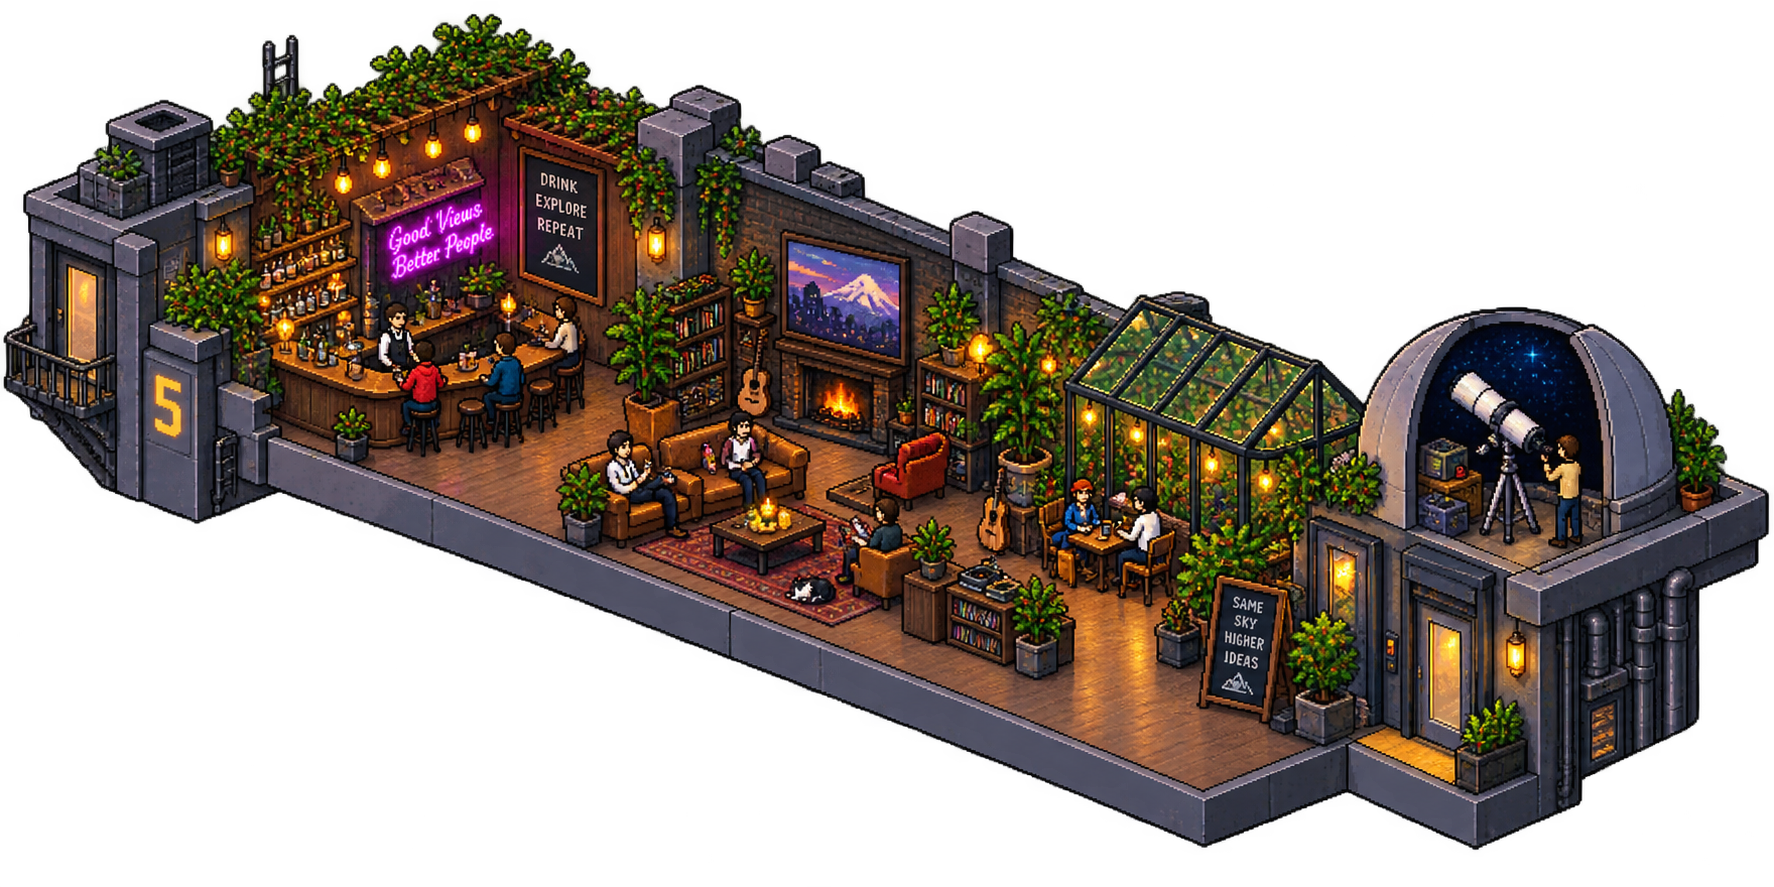
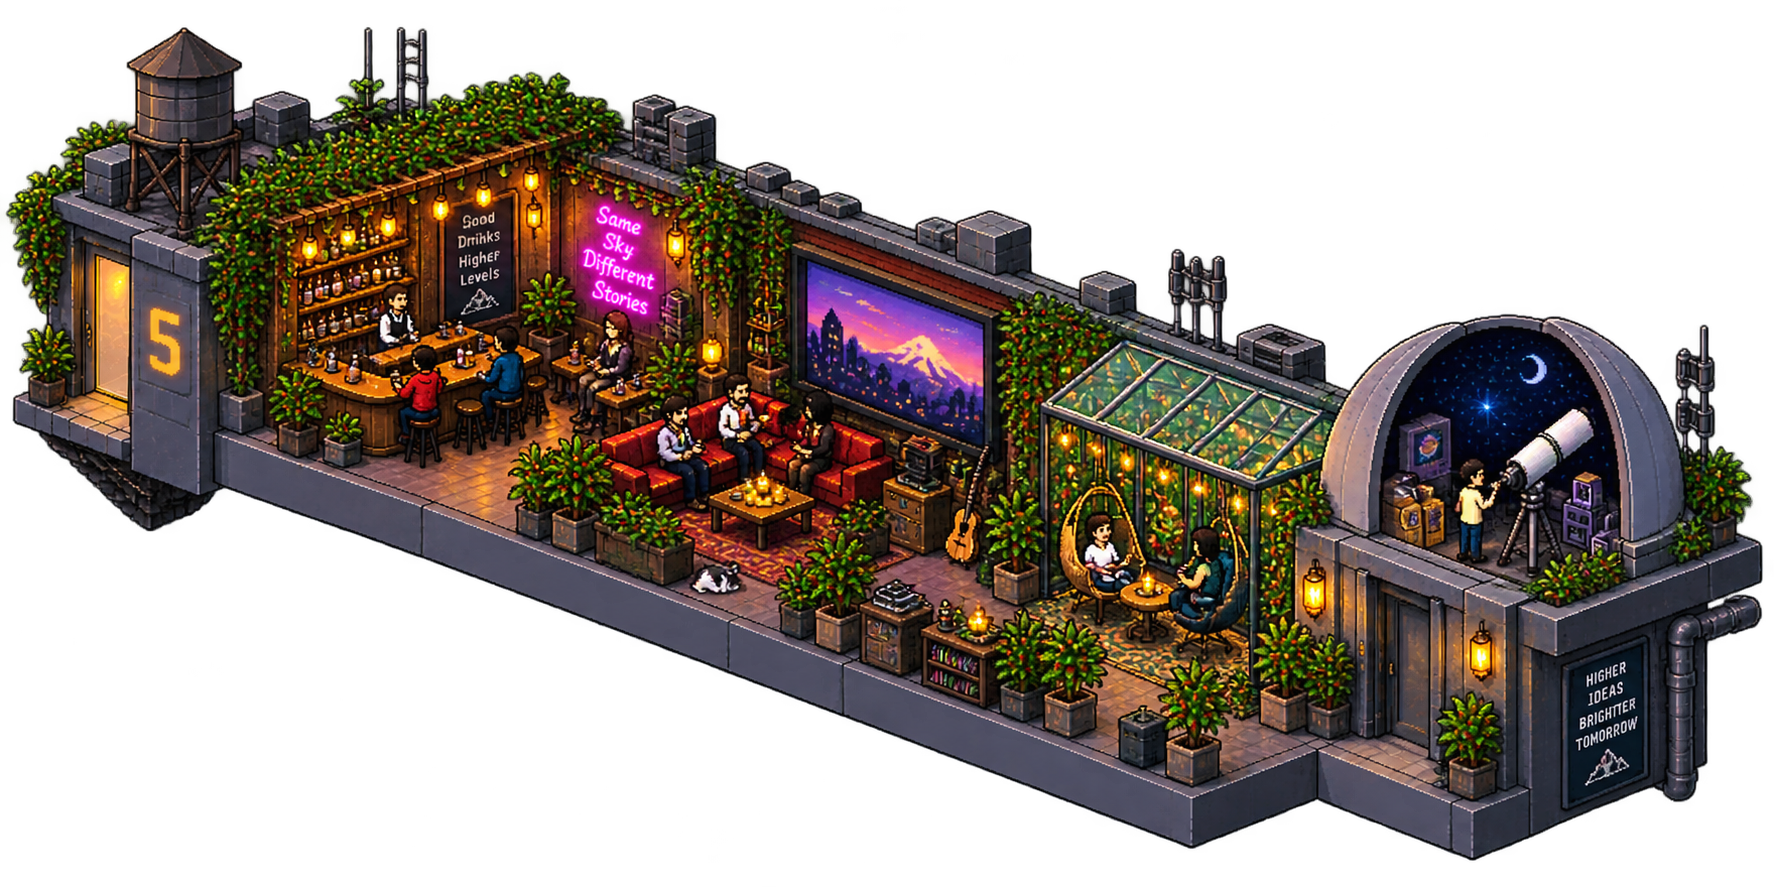
Drop seeding: the static building raises itself
There is nothing to raise any more. The roof, reference floor and basement are
drawn artwork, so a first visit imports them with no key and no generation, and
a visitor with no keys still gets a building to look at. Adding a floor is the
only action that costs anything.

Removes /api/seed and the curtain UI.

Claude-Session: https://claude.ai/code/session_01MaXVFccZj9sH8k3CmHqSfE

diff --git a/src/components/Tower.tsx b/src/components/Tower.tsx
@@ -13,7 +13,6 @@ import type { Floor } from "@/lib/ai/types";
 
 export default function Tower() {
   const [floors, setFloors] = useState<Floor[]>([]);
-  const [seeded, setSeeded] = useState<boolean | null>(null);
   const [serverKeys, setServerKeys] = useState(false);
   const [busy, setBusy] = useState(false);
   const [error, setError] = useState<string | null>(null);
@@ -21,7 +20,7 @@ export default function Tower() {
   const [viewportHeight, setViewportHeight] = useState(0);
   const framedRef = useRef(false);
 
-  const { keys, setKeys, headers, loaded } = useKeys();
+  const { keys, setKeys, headers } = useKeys();
   const frame = useMemo(() => frameOf(floors), [floors]);
   const placed = useMemo(() => placeFloors(floors, frame), [floors, frame]);
   const height = towerHeight(placed.length, frame);
@@ -45,14 +44,9 @@ export default function Tower() {
       .then((response) => response.json())
       .then((data) => {
         setFloors(data.floors);
-        setSeeded(data.seeded);
         setServerKeys(data.serverKeys);
       })
-      .catch(() => {
-        // Show the curtain rather than an empty screen; the error explains why.
-        setSeeded(false);
-        setError("Could not reach the building. Is DATABASE_URL set?");
-      });
+      .catch(() => setError("Could not reach the building. Is DATABASE_URL set?"));
   }, []);
 
   /** Frame the whole tower once, the first time there is something to look at. */
@@ -79,20 +73,6 @@ export default function Tower() {
     },
     [headers],
   );
-
-  const raiseBuilding = useCallback(async () => {
-    setBusy(true);
-    setError(null);
-    try {
-      const data = await post("/api/seed");
-      setFloors((current) => [...current, ...(data.floors as Floor[])]);
-      setSeeded(true);
-    } catch (thrown) {
-      setError(thrown instanceof Error ? thrown.message : "Could not raise the building.");
-    } finally {
-      setBusy(false);
-    }
-  }, [post]);
 
   const addFloor = useCallback(
     async (theme: string) => {
@@ -199,24 +179,7 @@ export default function Tower() {
       <KeyPanel keys={keys} onChange={setKeys} serverKeys={serverKeys} />
       {placed.length > 0 && <Navigator placed={placed} onSelect={jumpTo} />}
 
-      {seeded && (
-        <AddFloorControl busy={busy} disabled={!ready} error={error} onSubmit={addFloor} />
-      )}
-
-      {loaded && seeded === false && (
-        <div className={styles.curtain}>
-          <h1>NEXTFLOOR</h1>
-          <p>
-            There is no building yet. Raising it generates the lobby, the basement and the
-            roof, and the lobby becomes the reference every later floor is matched against.
-            This takes a few minutes and spends your own credit.
-          </p>
-          <button onClick={raiseBuilding} disabled={busy || !ready}>
-            {busy ? "BREAKING GROUND..." : ready ? "RAISE THE BUILDING" : "ENTER YOUR KEYS FIRST"}
-          </button>
-          {error && <p className={styles.curtainError}>{error}</p>}
-        </div>
-      )}
+      <AddFloorControl busy={busy} disabled={!ready} error={error} onSubmit={addFloor} />
     </>
   );
 }

diff --git a/src/lib/pipeline.ts b/src/lib/pipeline.ts
@@ -177,35 +177,30 @@ async function importFloor(
 }
 
 /**
- * The building always exists. Hand-made tiles in `public/building/` are used
- * when present -- the reference tile decides how every later floor looks, so a
- * drawn one beats a rolled one. Otherwise the first three floors are generated,
- * lobby first, and the caps are matched to it.
+ * The building always exists. Its roof, reference floor and basement are drawn
+ * artwork imported from `public/`, so there is nothing to generate and no key
+ * needed -- a visitor with no keys still gets a building to look at. Adding a
+ * floor is the only action that costs anything.
+ *
+ * Idempotent: the unique index on is_reference makes a concurrent second call
+ * fail rather than duplicate the reference floor.
  */
-export async function seedBuilding(keys: Keys): Promise<Floor[]> {
+export async function ensureBuilding(): Promise<Floor[]> {
   assertConsistentTiles();
   const existing = await listFloors();
   const created: Floor[] = [];
 
-  // Keyed on the reference tile, not on floor count: if the lobby came back
-  // dead there is nothing for later floors to match against, so try again.
-  if (!(await referenceTile())) {
-    created.push(
-      (await importFloor("floor", BASE_FLOOR_THEME, "Ground Floor", true)) ??
-        (await generateFloor({ keys, theme: BASE_FLOOR_THEME, kind: "floor", isReference: true })),
-    );
+  if (!existing.some((floor) => floor.kind === "floor")) {
+    const floor = await importFloor("floor", BASE_FLOOR_THEME, "80s Video Games", true);
+    if (floor) created.push(floor);
   }
   if (!existing.some((floor) => floor.kind === "basement")) {
-    created.push(
-      (await importFloor("basement", BASEMENT_THEME, "Basement", false)) ??
-        (await generateFloor({ keys, theme: BASEMENT_THEME, kind: "basement" })),
-    );
+    const basement = await importFloor("basement", BASEMENT_THEME, "Sub-Level", false);
+    if (basement) created.push(basement);
   }
   if (!existing.some((floor) => floor.kind === "roof")) {
-    created.push(
-      (await importFloor("roof", ROOF_THEME, "Roof", false)) ??
-        (await generateFloor({ keys, theme: ROOF_THEME, kind: "roof" })),
-    );
+    const roof = await importFloor("roof", ROOF_THEME, "Rooftop", false);
+    if (roof) created.push(roof);
   }
   return created;
 }

diff --git a/src/app/api/floors/route.ts b/src/app/api/floors/route.ts
@@ -1,17 +1,21 @@
 import { NextResponse } from "next/server";
 import { MissingKeyError, resolveKeys, serverKeysAvailable } from "@/lib/ai/keys";
-import { listFloors, referenceTile } from "@/lib/db/floors";
-import { generateFloor } from "@/lib/pipeline";
+import { listFloors } from "@/lib/db/floors";
+import { ensureBuilding, generateFloor } from "@/lib/pipeline";
 
 export const runtime = "nodejs";
 export const dynamic = "force-dynamic";
 export const maxDuration = 300;
 
 export async function GET() {
-  const floors = await listFloors();
+  // The static building raises itself on first visit; no keys, no generation.
+  try {
+    await ensureBuilding();
+  } catch (error) {
+    console.error("[nextfloor] could not raise the static building", error);
+  }
   return NextResponse.json({
-    floors,
-    seeded: Boolean(await referenceTile()),
+    floors: await listFloors(),
     serverKeys: serverKeysAvailable(),
   });
 }

diff --git a/src/components/Tower.module.css b/src/components/Tower.module.css
@@ -123,53 +123,3 @@
   color: var(--ink);
   border-color: var(--ink-faint);
 }
-
-.curtain {
-  position: fixed;
-  inset: 0;
-  z-index: 50;
-  display: grid;
-  place-content: center;
-  justify-items: center;
-  gap: 18px;
-  text-align: center;
-  padding: 24px;
-  background: var(--ground);
-}
-
-.curtain h1 {
-  margin: 0;
-  font-size: 14px;
-  letter-spacing: 0.24em;
-  color: var(--ink);
-  font-weight: 500;
-}
-
-.curtain p {
-  margin: 0;
-  max-width: 460px;
-  line-height: 1.7;
-  color: var(--ink-dim);
-}
-
-.curtain button {
-  border: 1px solid var(--ink-faint);
-  color: var(--ink);
-  padding: 10px 22px;
-  letter-spacing: 0.08em;
-  font-size: 11px;
-}
-
-.curtain button:hover:not(:disabled) {
-  background: rgba(255, 255, 255, 0.08);
-}
-
-.curtain button:disabled {
-  border-color: var(--edge);
-  color: var(--ink-faint);
-  cursor: not-allowed;
-}
-
-.curtain .curtainError {
-  color: var(--danger);
-}
